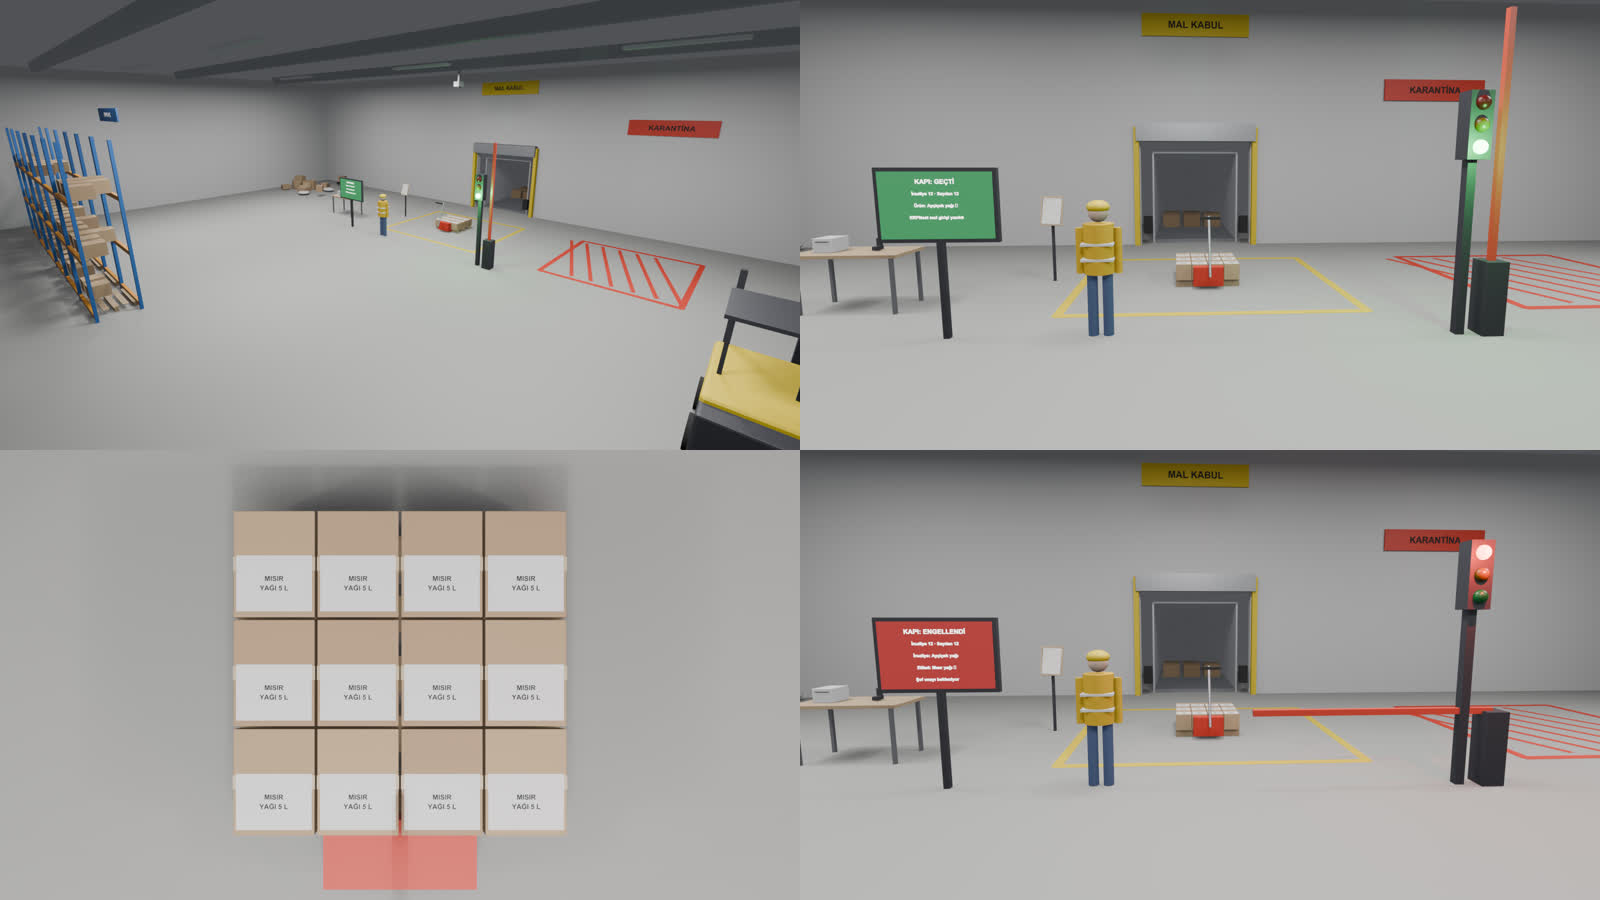
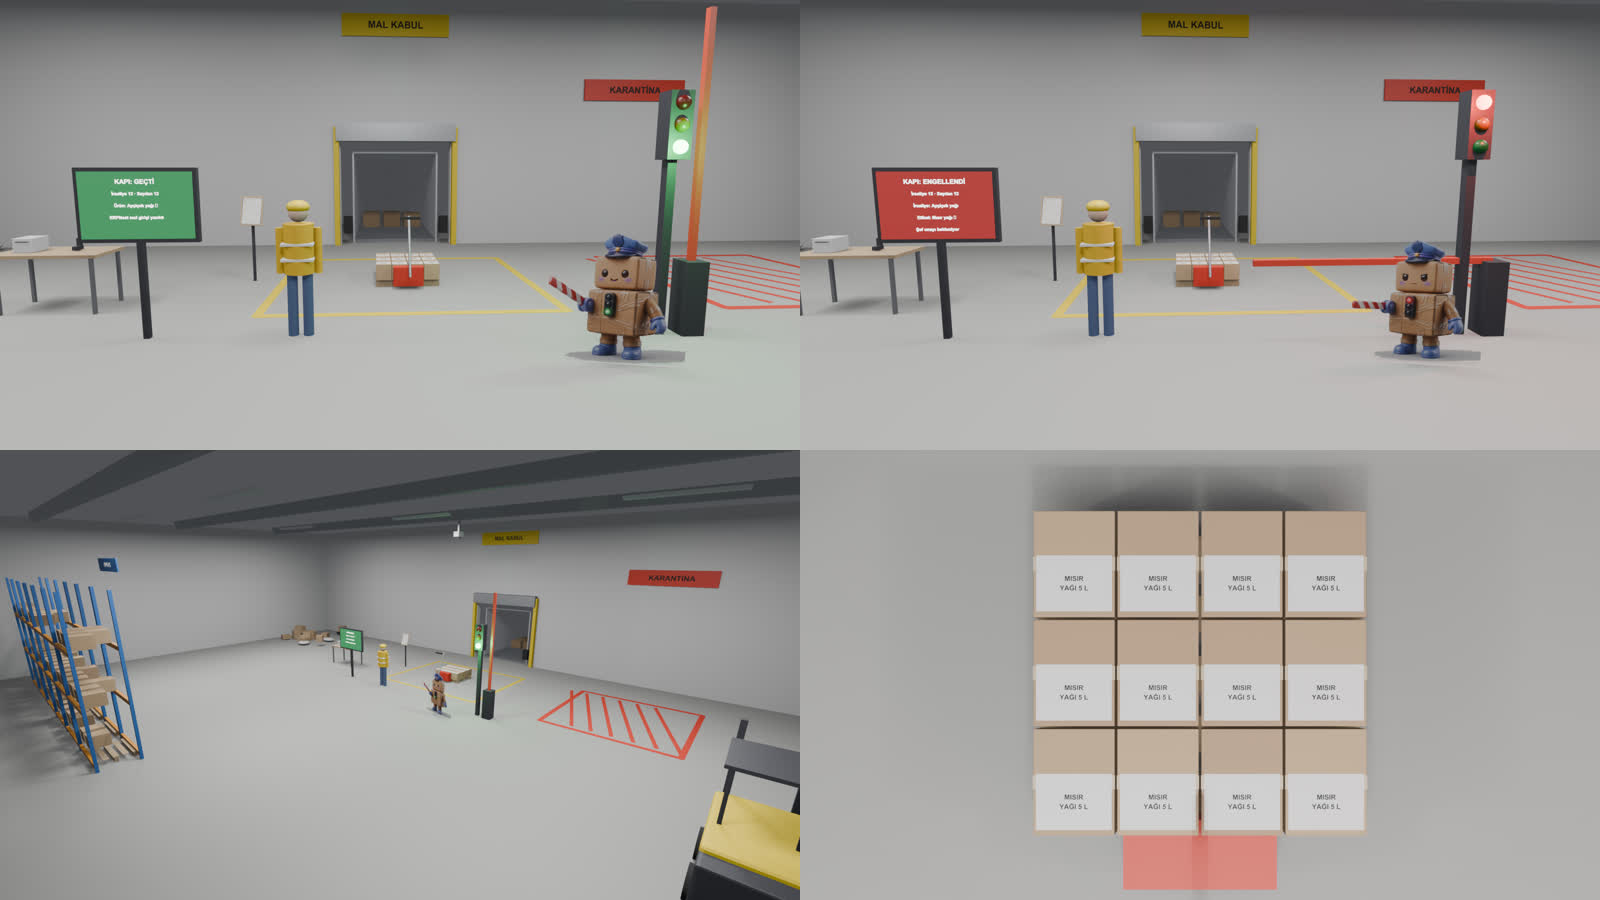
Kapi mascot standee at the gate
A red-light Kapi drawn from the chosen mascot with Muse Image edits stands
next to the barrier: smiling with a green light when the receipt passes,
stern with a red light when it is blocked. make_cutouts.py removes the
studio background so the warehouse scene stays reproducible.

diff --git a/experiments/blender/warehouse.py b/experiments/blender/warehouse.py
@@ -7,6 +7,7 @@ Variants:
   ok     12 boxes labelled AYÇİÇEK YAĞI, matching the delivery note → gate light green
   wrong  12 boxes labelled MISIR YAĞI: the count matches but the product does not → red
 For each variant: depo-<variant>-{genel,kamera,kapi}.png and depo-<variant>.blend.
+Run experiments/blender/make_cutouts.py first (Kapı mascot standee).
 """
 import math
 import random
@@ -18,6 +19,7 @@ from mathutils import Vector
 
 REPO = Path(__file__).resolve().parents[2]
 NOTE_IMG = REPO / "experiments" / "notes" / "09-depo-sahnesi.png"
+CUTOUTS = REPO / "experiments" / "blender" / "cutouts"
 FONT = "/System/Library/Fonts/Supplemental/Arial Bold.ttf"
 
 VARIANTS = {
@@ -233,6 +235,29 @@ def gate(M, state):
         arm.location = (x + 0.4, y, 1.0 + 1.6)
 
 
+def mascot(state):
+    """Kapı, the gate mascot, as a cardboard standee next to the barrier (cut-out of
+    assets/mascots/kapi*.jpg with the background removed)."""
+    name = "kapi-gec.png" if state == "green" else "kapi-dur.png"
+    img = bpy.data.images.load(str(CUTOUTS / name))
+    m = bpy.data.materials.new("kapi_cutout")
+    m.use_nodes = True
+    nt = m.node_tree
+    tex = nt.nodes.new("ShaderNodeTexImage")
+    tex.image = img
+    bsdf = next(n for n in nt.nodes if n.type == "BSDF_PRINCIPLED")
+    nt.links.new(tex.outputs["Color"], bsdf.inputs["Base Color"])
+    nt.links.new(tex.outputs["Alpha"], bsdf.inputs["Alpha"])
+    bsdf.inputs["Roughness"].default_value = 0.6
+    h = 1.5
+    w = h * img.size[0] / img.size[1]
+    bpy.ops.mesh.primitive_plane_add(size=1, location=(2.1, 1.5, h / 2),
+                                     rotation=(math.radians(90), 0, math.radians(-12)))
+    ob = bpy.context.object
+    ob.name, ob.scale = "kapi_maskot", (w, h, 1)
+    ob.data.materials.append(m)
+
+
 def screen(lines, ok, M):
     x, y = -3.6, 2.6
     box("screen_stand", (0.08, 0.08, 1.3), (x, y, 0.65), M["dark"])
@@ -388,6 +413,7 @@ def build(variant):
     forklift((10.5, -1.5), M)
     racks(M, rnd)
     gate(M, V["light"])
+    mascot(V["light"])
     screen(V["screen"], variant == "ok", M)
     clipboard(M)
     workbench(M)

diff --git a/experiments/blender/make_cutouts.py b/experiments/blender/make_cutouts.py
@@ -1,0 +1,37 @@
+"""Cut the Kapı mascot out of its plain background for the warehouse standee.
+
+Usage: .venv/bin/python experiments/blender/make_cutouts.py
+Writes experiments/blender/cutouts/kapi-gec.png (green) and kapi-dur.png (red).
+"""
+from pathlib import Path
+
+from PIL import Image, ImageDraw
+
+REPO = Path(__file__).resolve().parents[2]
+OUT = Path(__file__).parent / "cutouts"
+SOURCES = {"kapi-gec": "assets/mascots/kapi.jpg", "kapi-dur": "assets/mascots/kapi-dur.jpg"}
+MARKER = (255, 0, 255)
+
+
+def cut(src: Path) -> Image.Image:
+    im = Image.open(src).convert("RGB")
+    w, h = im.size
+    work = im.copy()
+    # Flood the light-grey studio background from the corners and the top edge.
+    for seed in ((0, 0), (w - 1, 0), (0, h - 1), (w - 1, h - 1), (w // 2, 0)):
+        ImageDraw.floodfill(work, seed, MARKER, thresh=28)
+    alpha = Image.new("L", (w, h), 255)
+    px, ap = work.load(), alpha.load()
+    for y in range(h):
+        for x in range(w):
+            if px[x, y] == MARKER:
+                ap[x, y] = 0
+    im.putalpha(alpha)
+    return im.crop(alpha.getbbox())
+
+
+if __name__ == "__main__":
+    OUT.mkdir(exist_ok=True)
+    for name, src in SOURCES.items():
+        cut(REPO / src).save(OUT / f"{name}.png")
+        print(name)
